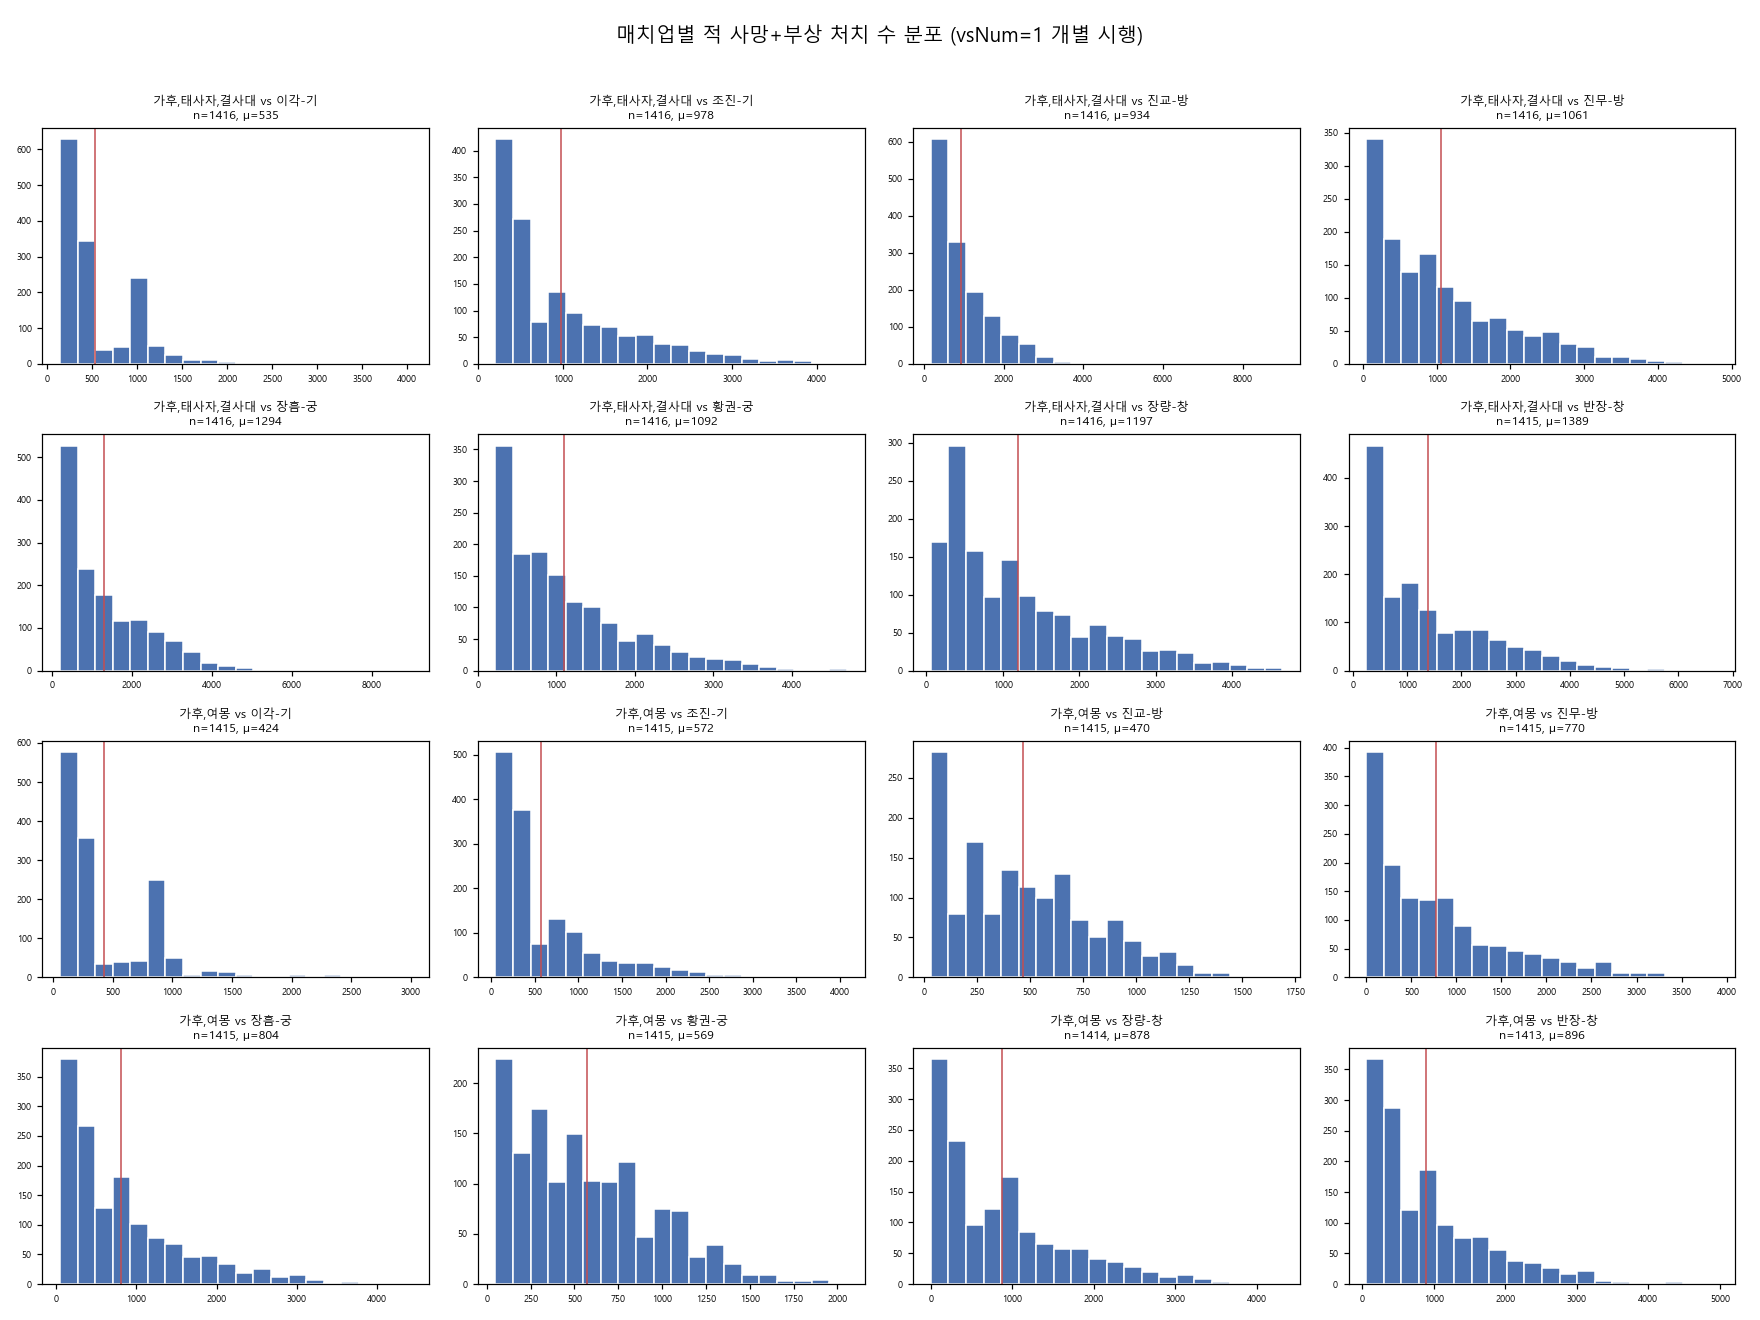
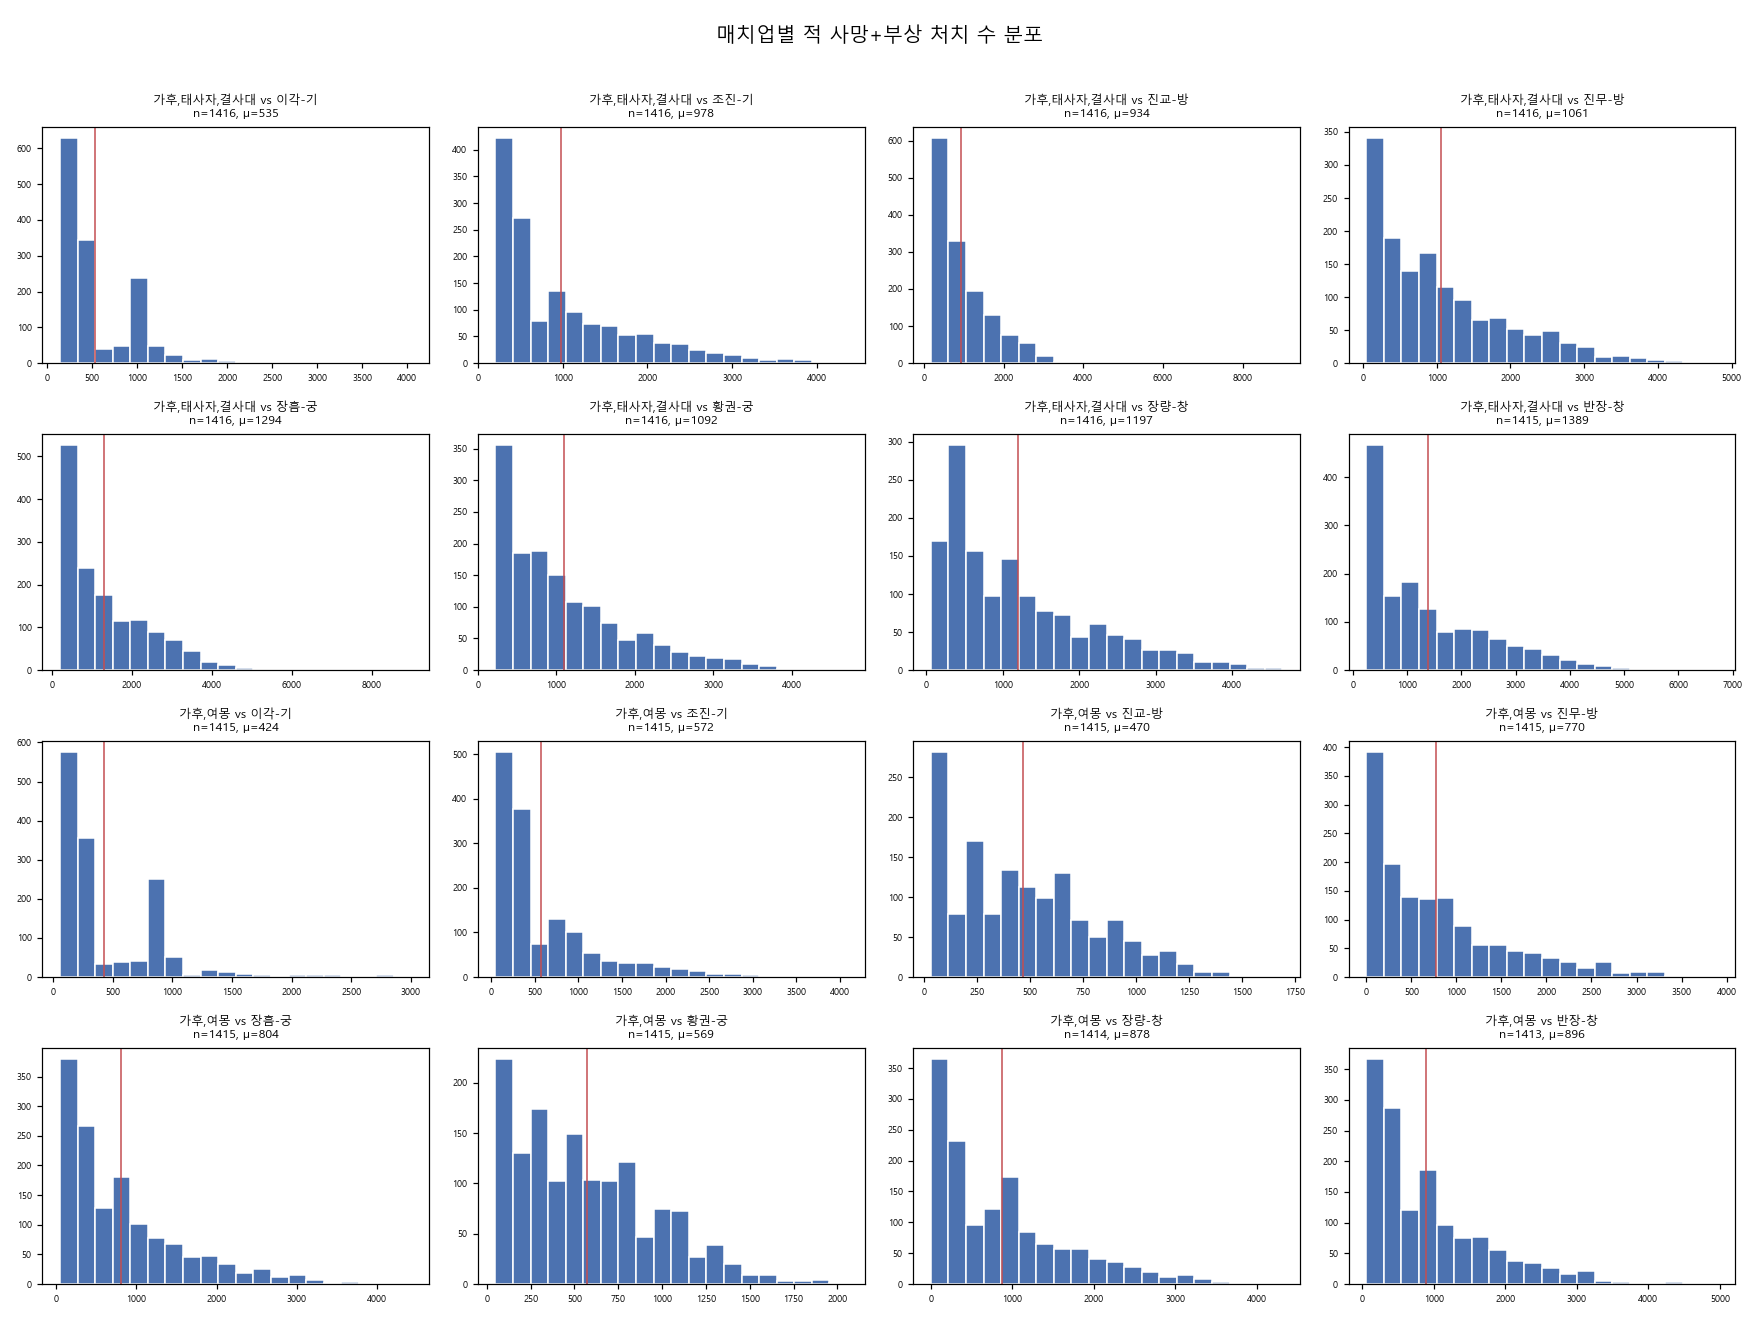
Update variance chart, tweak 노태장 guide skill pick, trim variance note

diff --git a/simulator/index.html b/simulator/index.html
@@ -6299,7 +6299,7 @@ body{margin:0; background:var(--bg)}
 <tr><th class="rowh">가후,태사자,결사대</th><td>평균 : 535<br>표준편차 : 462<br>최소값 : 142<br>최대값 : 4049</td><td>평균 : 978<br>표준편차 : 810<br>최소값 : 201<br>최대값 : 4360</td><td>평균 : 934<br>표준편차 : 741<br>최소값 : 170<br>최대값 : 9000</td><td>평균 : 1061<br>표준편차 : 888<br>최소값 : 47<br>최대값 : 4812</td><td>평균 : 1294<br>표준편차 : 1047<br>최소값 : 203<br>최대값 : 9000</td><td>평균 : 1092<br>표준편차 : 798<br>최소값 : 223<br>최대값 : 4705</td><td>평균 : 1197<br>표준편차 : 951<br>최소값 : 60<br>최대값 : 4654</td><td>평균 : 1389<br>표준편차 : 1113<br>최소값 : 249<br>최대값 : 6725</td></tr>
 <tr><th class="rowh">가후,여몽</th><td>평균 : 424<br>표준편차 : 449<br>최소값 : 57<br>최대값 : 3007</td><td>평균 : 572<br>표준편차 : 605<br>최소값 : 47<br>최대값 : 4081</td><td>평균 : 470<br>표준편차 : 324<br>최소값 : 34<br>최대값 : 1691</td><td>평균 : 770<br>표준편차 : 738<br>최소값 : 0<br>최대값 : 3902</td><td>평균 : 804<br>표준편차 : 745<br>최소값 : 46<br>최대값 : 4432</td><td>평균 : 569<br>표준편차 : 386<br>최소값 : 49<br>최대값 : 2055</td><td>평균 : 878<br>표준편차 : 789<br>최소값 : 0<br>최대값 : 4313</td><td>평균 : 896<br>표준편차 : 812<br>최소값 : 58<br>최대값 : 4970</td></tr>
 </tbody></table></div>
-<p>값 형식: 평균 / 표준편차 / 최소값 / 최대값 (적 사망+부상 처치 수 기준). 배치 평균(vsNum=20000)이 아니라 실제 개별 전투 하나하나를 모은 값이라, 여기 나온 최소값~최대값 폭이 혼란 상태이상 등으로 인한 실전 변동폭을 그대로 보여줍니다.</p>
+<p>값 형식: 평균 / 표준편차 / 최소값 / 최대값 (적 사망+부상 처치 수 기준). 배치 평균이 아니라 실제 개별 전투 하나하나를 모은 값이라, 여기 나온 최소값~최대값 폭이 혼란 상태이상 등으로 인한 실전 변동폭을 그대로 보여줍니다.</p>
 <h2>매치업별 분포 그래프</h2>
 <img class="chart-img" src="bomb_deck_variance_charts.png" alt="매치업별 분포">
 <p>빨간 세로선은 해당 매치업의 평균. 라운드로빈(16셀을 한 바퀴씩 순회)으로 데이터가 쌓이므로, 이 그래프는 한 라운드가 끝날 때마다 갱신됩니다.</p>
@@ -6452,9 +6452,9 @@ body{margin:0; background:var(--bg)}
 <tr><td rowspan="3">20레벨 전</td><td>SP노식</td><td>통솔</td><td>잠룡진</td><td></td><td></td><td class="desc" rowspan="3"></td></tr>
 <tr><td>태사자</td><td>무력</td><td>최봉단인</td><td></td><td></td></tr>
 <tr><td>장춘화</td><td>지력</td><td>무당비군</td><td></td><td></td></tr>
-<tr><td rowspan="3">20레벨 후</td><td>SP노식</td><td>통솔</td><td>잠룡진</td><td>기세등등</td><td></td><td class="desc" rowspan="3"></td></tr>
+<tr><td rowspan="3">20레벨 후</td><td>SP노식</td><td>통솔</td><td>잠룡진</td><td>기세등등</td><td></td><td class="desc" rowspan="3">지난(S26)시즌 노태장 개척을 먼저 하였던 '곽회'님이 육력동심 전법을 추천. 일부러 7토 장각 방패병을 찾아 토지 변환을 눌러서 7토지를 쉽게 점령했다는 팁도 같이 설명해주심</td></tr>
 <tr><td>태사자</td><td>무력</td><td>유리한기회</td><td>최봉단인</td><td></td></tr>
-<tr><td>장춘화</td><td>지력</td><td>무당비군</td><td>임기제승</td><td></td></tr>
+<tr><td>장춘화</td><td>지력</td><td>무당비군</td><td>육력동심</td><td></td></tr>
 </tbody></table></div>
 
 <h2>토지 난이도</h2>
